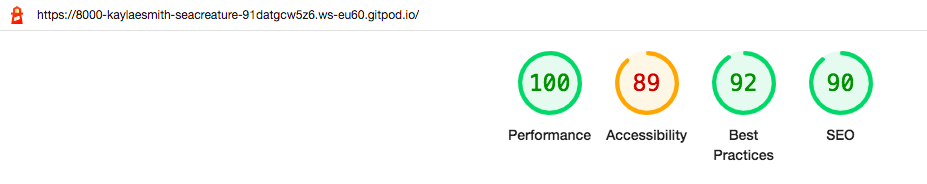
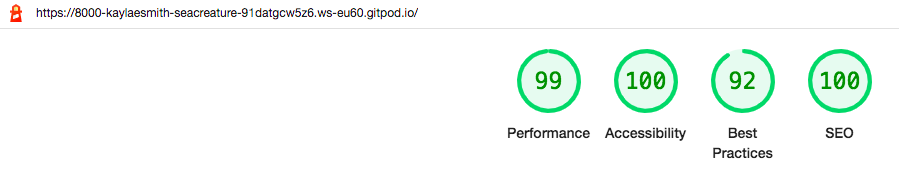
Add alt attributes to images. Change README images and update testing and BUG information.

diff --git a/assets/css/style.css b/assets/css/style.css
@@ -1,12 +1,6 @@
-/* @import url('https://fonts.googleapis.com/css2?family=Fjalla+One&family=Poppins:wght@300&display=swap'); */
-@import url('https://fonts.googleapis.com/css2?family=Fjalla+One&family=Montserrat:wght@200&family=Poppins:wght@300&display=swap');
-/*needed below?? */
-/* * {
-  margin: 0;
-  padding: 0;
-  box-sizing:border-box;
- } */
+@import url('https://fonts.googleapis.com/css2?family=Fjalla+One&family=Poppins:wght@300&display=swap');
 
+/* START OF BACKGROUND IMAGE, OPAQUE CONTAINER AND GAME TITLE */
 body {
   font-family: 'Fjalla One', sans-serif;
   background: url('../images/ocean-background.jpeg') no-repeat center center / cover;
@@ -110,7 +104,6 @@ h1 {
   background: linear-gradient(45deg, #63386c, #3992ac);
   color: white;
   font-size: 18px;
-  /* margin: 1rem; */
   letter-spacing: 1px;
   font-family: 'Poppins', sans-serif;
   font-weight: bolder;
@@ -150,7 +143,7 @@ h1 {
 
 .benefits {
   font-family: 'Poppins', sans-serif;
-  font-size: 12px;  
+  font-size: 12px;
   border: 0.8em solid rgb(57, 146, 172, .8);
   background-color: #565581;
   border-radius: 20px;
@@ -173,9 +166,6 @@ h2 {
 }
 
 .moves {
-  /* margin: 0px 5rem; */
-  /* padding-bottom: 1rem; */
-  /* color: #8d4b9a; */
   color: #773b84;
   letter-spacing: 1px;
   font-size: 120%;
@@ -208,10 +198,6 @@ h2 {
 }
 
 @media screen and (min-width: 800px) {
-
-  /* .moves {
-    margin: 0px 2rem;
-  } */
   .benefits {
     padding: 1rem;
   }
@@ -244,14 +230,6 @@ h2 {
     font-size: 150%;
     margin: 0 auto;
   }
-
-  /* .ready-button {
-    font-size: 12px;
-    margin: 0;
-    letter-spacing: 0px;
-    height: 2rem;
-    width: 6rem;
-  } */
 }
 
 @media screen and (max-width: 580px) {
@@ -280,14 +258,12 @@ h2 {
   }
 
   .instructions {
-    /* margin: 7rem 3rem; */
     font-family: 'Poppins', sans-serif;
     border: 0.8em solid rgb(185, 208, 231, .5);
     background-color: #19718b;
     border-radius: 20px;
     margin: 3rem auto;
     padding: 1rem;
-    /* max-width: 60%; */
   }
 
   .benefits {
@@ -301,13 +277,12 @@ h2 {
     margin: 0 auto;
   }
 
-  .ready-button, 
+  .ready-button,
   .play-button {
     font-size: 12px;
     margin: 0;
     letter-spacing: 0px;
     height: 2rem;
-    /* width: 5rem; */
     width: 6rem;
   }
 }
@@ -325,12 +300,6 @@ h2 {
     font-size: 85%;
   }
 
-  /* .moves {
-    font-size: 55%;
-    margin: 0px 45px;
-    padding-bottom: 1rem;
-    color: #8d4b9a;
-  } */
   .reset,
   .rules {
     height: 2rem;
@@ -338,11 +307,4 @@ h2 {
     font-size: 12px;
     letter-spacing: 1px;
   }
-  /* .play-button, .ready-button {
-    font-size: 12px;
-    margin: 0;
-    letter-spacing: 0px;
-    height: 2rem;
-    width: 5rem;
-  } */
 }

diff --git a/assets/js/script.js b/assets/js/script.js
@@ -67,7 +67,6 @@ let animalCards = () => [{
     },
 ];
 
-
 /** RANDOMIZES CARDS ON BOARD */
 let randomize = () => {
     let cardInfo = animalCards();
@@ -92,6 +91,8 @@ let gameboard = () => {
         card.classList = "card";
         cardFront.classList = "card-front";
         cardBack.classList = "card-back";
+        cardFront.setAttribute("alt", "sea-animal");
+        cardBack.setAttribute("alt", "coral-reef");
 
         // Put images onto card faces //
         cardFront.src = item.img;
@@ -119,13 +120,11 @@ let checkMatch = (event) => {
 
         if (cardFlipped[0].getAttribute("name") === cardFlipped[1].getAttribute("name")) {
 
-            console.log('match');
             cardFlipped.forEach((card) => {
                 card.classList.remove("flipped");
                 card.style.pointerEvents = 'none';
             });
         } else {
-            console.log('no match');
             cardFlipped.forEach((card) => {
                 card.classList.remove("flipped");
                 setTimeout(() => card.classList.remove("toggle"), 900);
@@ -134,7 +133,6 @@ let checkMatch = (event) => {
         addMove();
     }
 };
-
 
 /** RESET GAME */
 const resetButton = document.querySelector(".reset");
@@ -159,9 +157,7 @@ function addMove() {
     moveContainer.innerHTML = moves;
 }
 
-/** BENEFITS OF GAME - homepage overlay */
-
-/** CLOSE instructions */
+/** BENEFITS OF GAME - homepage overlay, CLOSE instructions */
 const readyButton = document.querySelector(".ready");
 let ready = document.getElementsByClassName("benefits-card");
 
@@ -170,7 +166,6 @@ readyButton.addEventListener('click', hideBenefits);
 function hideBenefits() {
     ready[0].style.display = "none";
 }
-
 
 /** HOW TO PLAY, pop-up OPEN instructions */
 const rulesButton = document.querySelector(".rules");

diff --git a/index.html b/index.html
@@ -44,7 +44,7 @@
     </div>
   </div>
 
-  <!-- COVER PAGE (POP-UP) -->
+  <!-- BENEFITS PAGE (OVERLAY) -->
   <div class="benefits-card">
     <div class="benefits">
       <h2>Benefits of the game</h2>

diff --git a/README.md b/README.md
@@ -98,6 +98,10 @@ Full game (desktop and mobile)
 ![Lighthouse](assets/docs/lighthouse_fullgame_desktop.png)
 ![Lighthouse](assets/docs/lighthouse_fullgame_mobile.png)
 
+- I ran the project through [WAVE](https://wave.webaim.org/), an accessibility testing tool mentioned my Harry, my mentor.
+
+PUT WAVE FIXED ERRORS IMAGE HERE
+
 - This project was also submitted on the peer-code-review Slack channel, though no comments were made.
 
 ### Validator Testing 
@@ -140,6 +144,21 @@ __Safari Bugs__
 
 ![CardFaceError](assets/docs/bug_card_faces.jpg)
 
+__Accessibility Bugs__
+- I ran the project through [WAVE](https://wave.webaim.org/), an accessibility testing tool mentioned my Harry, my mentor. There were 32 errors, all attributed to lack of alt attributes on img files. These are fixed now; an image of the final WAVE report can be seen above in the Testing section.
+
+![WaveReport](assets/docs/wave_report_errors.png)
+
+- I also had a lower accessibility score than I'd hoped for on the full game  and for the game board section separately when run through Lighthouse, both on desktop and mobile. After consulting the report, it appeared the complaint had to do with lack of alt attributes on img files, which was the same complaint from WAVE. I have added alt attributes and the errors are fixed. Images of the final results from Lighthouse can be seen above in the Testing section. The images below reflect scores earned on the full game and the game board, respectively, before alt attirbutes were added to the images.
+
+Full game (desktop and mobile)
+![Lighthouse](assets/docs/lighthouse_fullgame_desktop_errors.png)
+![Lighthouse](assets/docs/lighthouse_fullgame_mobile_errors.png)
+
+Game board (desktop and mobile)
+![Lighthouse](assets/docs/lighthouse_gameboard_desktop_errors.png)
+![Lighthouse](assets/docs/lighthouse_gameboard_mobile_errors.png)
+
 __Other Bugs__
 - The "reset" and "rules" buttons were aligned to the left though I had programmed them to be center-aligned through CSS so I thought something was overriding my styling that I wasn't seeing. 
 
@@ -153,7 +172,7 @@ __Other Bugs__
 
 ![Images404](assets/docs/bug_404_images.png)
 
-- Clicking the "rules" button did now correctly execute my eventListener to display my rules overlay. I consulted a [YouTube video](https://bobbyhadz.com/blog/javascript-cannot-read-property-addeventlistener-null). The problem was my const rulesButton variable was calling a rules ID (#rules) rather than the rules class (.rules) I needed. This is fixed now. 
+- Clicking the "rules" button did not correctly execute my eventListener to display my rules overlay. I consulted a [YouTube video](https://bobbyhadz.com/blog/javascript-cannot-read-property-addeventlistener-null) but the problem was my const rulesButton variable was calling a rules ID (#rules) rather than the rules class (.rules) I had created in my HTML. This is fixed now. 
 
 ![NullEventListener](assets/docs/bug_null_eventListener.png)
 
@@ -187,9 +206,13 @@ The live link can be found here - https://kaylaesmith1.github.io/sea-creature-me
 
   Feedback and comments from the reviewer of my PP1 were taken into account for this project when running tests and identifying and fixing bugs. Per their suggestion, I have included screenshots of bugs in this README file to better document the solution process.
 
-  Colleagues on the slack channels have also been helpful, specifically Eoghan Behan who gave a solution to a problem with button alignment on the gameboard page. By removing the specific margin and using display: flex; I was able to justify and center the content. The buttons appear centered now in the final project.
+- Colleagues on the slack channels have also been helpful, specifically Eoghan Behan who gave a solution to a problem with button alignment on the gameboard page. By removing the specific margin and using display: flex; I was able to justify and center the content. The buttons appear centered now in the final project.
 
-  Finally, I would like to thank my mentor, Harry, for guiding me at the outset of PP2 in keeping in mind the assessment criteria and the importance of working through and validating each section of JavaScript as you go. He suggested that I work on the functionality of the actual game first and then tackle the CSS, which was good adivce. He has been quick to give helpful feedback during this process and is always available. I appreciate his insight.
+- Finally, I would like to thank my mentor, Harry, for guiding me at the outset of PP2 in keeping in mind the assessment criteria and the importance of working through and validating each section of JavaScript as you go. 
+  
+  He suggested that I work on the functionality of the actual game first and then tackle the CSS, which was good adivce. Before submission, he helped me work through the logic of adding alt attributes to img files in a JavaScript array. This solutions resulted in higher Lighthouse scores and no errors in my WAVE report.
+  
+  He has been quick to give helpful feedback during this process and is always available. I appreciate his insight.
 
 
 ### Media
